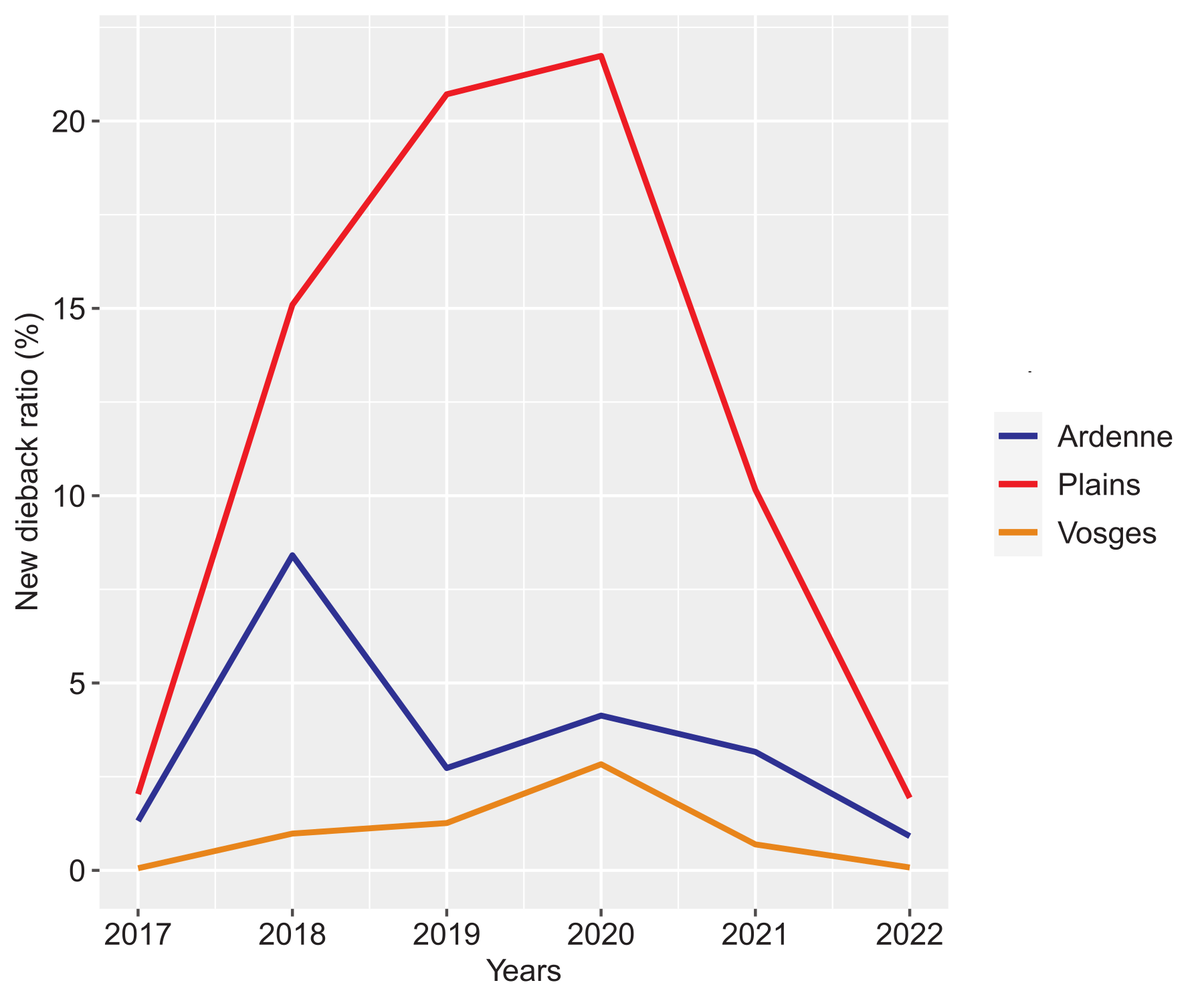
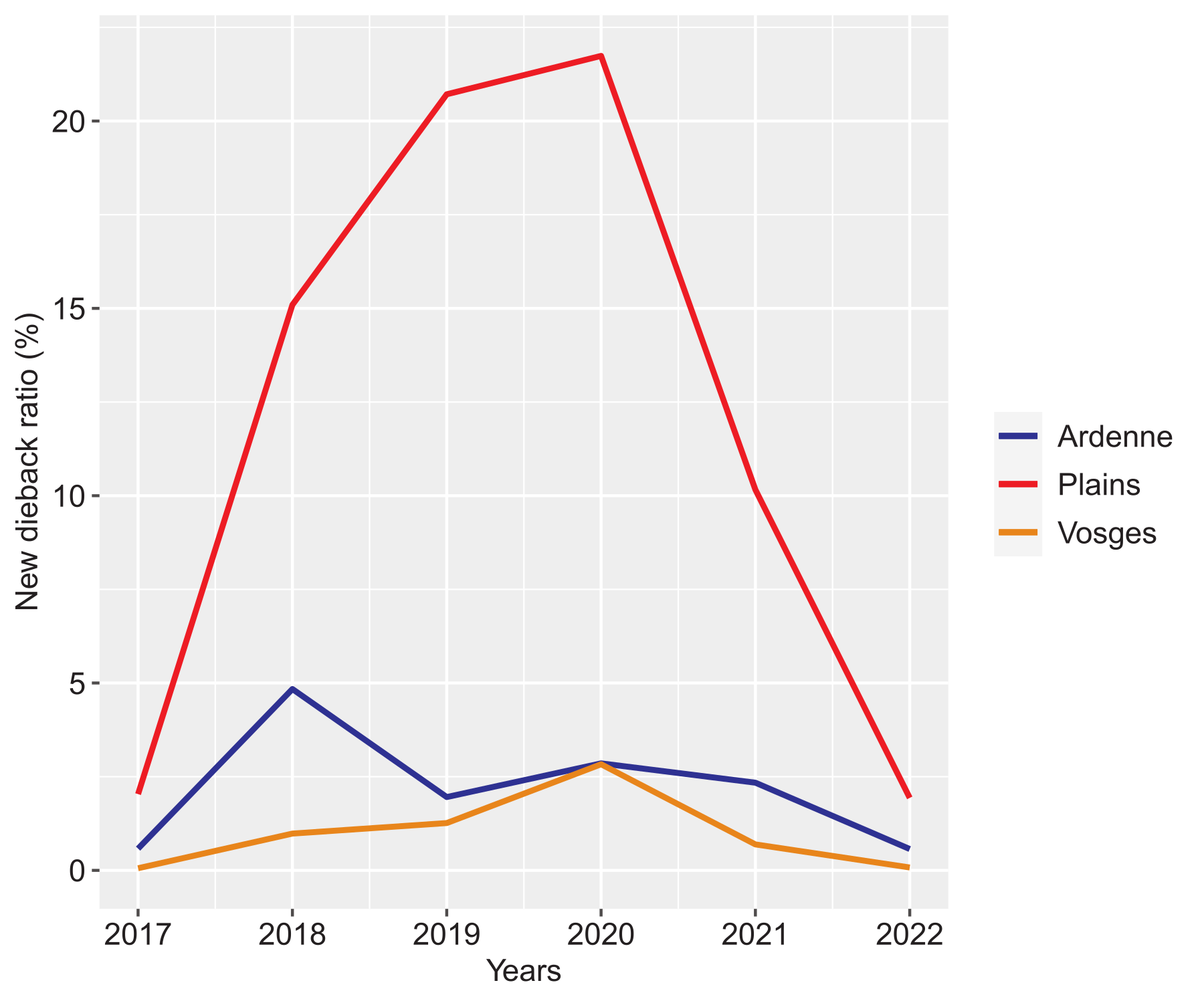
modif conclusion +  discussion

diff --git a/articleSco/2022-ScolytesArdenneVosges.tex b/articleSco/2022-ScolytesArdenneVosges.tex
@@ -28,7 +28,7 @@
 \author[label1]{Gilles Arthur}
 \ead{arthur.gilles@uliege.be}
 \author[label1]{Lisein Jonathan}
-\author[label2]{Lemaire Jean}
+%\author[label2]{Lemaire Jean}
 \author[label2]{Cansel Juliette}
 \author[label3]{Piedallu Christian}
 \author[label1]{Claessens Hugues}
@@ -107,8 +107,7 @@ After several weeks, the red stage is reached when the needles turn brown-red. T
 When all the needles of the spruce have fallen off and the grey bark of the trunk is visible, the grey stage is reached \citep{abdullah_european_2018}. 
 To control the infestation of bark beetle, the practical solutions are limited. 
 The use of phytosanitary product is forbidden in Belgian and French forest.
-Pheromone trap systems are commercialized to fight bark beetle
- but they failed to limit the economic loss in case of large outbreak \citep{kuhn_pheromone_2022}.
+Pheromone trap systems are commercialized to fight bark beetle but they failed to limit the economic loss in case of large outbreak \citep{kuhn_pheromone_2022}.
 The only solution to limit the bark beetle population and its associated damages is to fell and remove each attacked tree at the green stage, before the swarming.
 It takes this ideal breeding material out of the forest.
 
@@ -153,7 +152,7 @@ The spruce area studied is 120,365 ha in Ardenne, 24,462 ha in the Vosges and 75
 
 Forest microclimate contrast with the climate.
 The micro-climate is influenced including by topography \citep{de_frenne_forest_2021}.
-The digital surface model data from the Copernicus Land Monitoring Service \citep{DEM_copernicus} at a resolution of 25 m have been used for altitude data's and slope calculations.
+The digital elevation model (DEM) data from the Copernicus Land Monitoring Service \citep{DEM_copernicus} at a resolution of 25 m have been used for altitude data's and slope calculations.
 The topographic exposures have been determined using the \cite{Delvaux_galoux} definition of three topographic  exposures.
 Plateau are neutral topographic conditions that does not create a particular micro-climate. 
 North-facing orientations are slopes greater than  20\% facing north (285 to 125°) with cold and shady conditions.
@@ -191,7 +190,7 @@ The analysis of image time-serie was thus quite straightforward and has been per
 Although \cite{dutrieux_package_2021} have published their methodology as a open-source python package, named \textit{FORDEAD}, we have adapted the pipeline in C++ in order to comply with our specific requirements (our code is online on github repository \url{https://github.com/JoLeBelge/s2-spruce-dieback/}). 
 We made use of OTB toolbox \citep{grizonnet_2017_OTB} for image processing and the health status was summarized by seasonnal annual health maps (in raster format).
 The annual health maps cover the period starting from may and finishing in april of the next calendar year, because we made the assumption that Norway spruce dieback detected in april are related to bark beetle attack from the previous calendar year \citep{muller_features_2022}.
-For every years between 2018 and 2021, the health status of every single pixel located in a spruce stand is summarized in one of the four following classes ; healthy, bark beetle attacked, cutted or sanitary thinning.
+For every years between 2018 and 2022, the health status of every single pixel located in a spruce stand is summarized in one of the four following classes ; healthy, bark beetle attacked, cutted or sanitary thinning.
 In view of the rapid death of spruce trees, it is assumed that all trees detected as dead are due to bark beetle attack.
 The dense time-serie covers the 2017-2021 period and count a minimum of 126 and maximum 260 acquisition dates. 
 The annual time-serie enumerate a minimum of 10 and maximum of 51 acquisition dates. 
@@ -305,8 +304,8 @@ The total area of spruce at the beginning of the years is composed of the area o
 %We study the dieback of the Norway spruce in function of this two variables.
 \subsection{Sanitary map validation}
 The result of photo-interpretation of spruce stand crossed with the sanitary map is present in the table \ref{tab_confu_matrix}. 
-When the sanitary map predicts a decline, the dieback is confirmed by the orthophotoplan in 86,1 \% of the verified area.
-In 13,9 \% this a false positive and the trees are healthy.
+When the sanitary map predicts a decline, the dieback is confirmed by the orthophotoplan in 86.1 \% of the verified area.
+In 13.9 \% this a false positive and the trees are healthy.
   
 \begin{table}[htbp] 
 \caption{Confusion matrix of the result of the sanitary map validation for 274 spruce stands.}
@@ -314,10 +313,9 @@ In 13,9 \% this a false positive and the trees are healthy.
 \begin{tabular}{|l|l|l|}
 \hline
 \diagbox{Sanitary map}{Orthophotoplan} & Dead trees & Healthy trees \\ \hline
-Dieback trees                    & 86,1 \%   & 13,9 \%      \\ \hline
+Dieback trees                    & 86.1 \%   & 13.9 \%      \\ \hline
 \end{tabular}
 \end{table}
-
 
 The field validation confirm the result of the photo-interpretation method.
 Dead trees is identified correctly in 84.7 \%.
@@ -328,7 +326,7 @@ The healthy tree on the sanitary map are valided in 100 \% of the stand  in the 
 \begin{tabular}{|l|l|l|}
 \hline
 \diagbox{Sanitary map}{Field} & Dead trees & Healthy trees \\ \hline
-Dieback trees                    & 74.7 \%  & 15.3\%      \\ \hline
+Dieback trees                    & 84.7 \%  & 15.3\%      \\ \hline
 Healthy trees                    & 0 \%      & 100 \%
 \\ \hline
 
@@ -337,26 +335,27 @@ Healthy trees                    & 0 \%      & 100 \%
 
 
 
-\subsection{Evolution of the crisis }
+\subsection{Evolution of the crisis}
 
-Drought event and heatwaves  touched the western Europe since 2018.
+Drought event and heatwaves touched the western Europe since 2018.
 However, the outbreaks did not occur at the same time in the different regions (Figure \ref{evol_gen}).
-The first major dieback took place in the Ardenne in 2018 but the peak is directly reached and a decrease of new dieback ratio is observed from 2019. 
-A slight recovery in dieback occurs in 2020.
-%add reference crise 5 ans
-The area of Norway spruce killed in Ardenne during the five years of the study is 22.520 ha.
-The maximum of the proportion of the area touched by bark beetles during crisis peak in 2018 is 8,4\%. 
-The climatic area of the Ardenne have lost 18,7 \% of his Norway spruce area.
-In the Vosges, there is 4.248 ha killed by bark beetles.
-However, the maximum ratio of area affected by this insect is 2,8 \% in 2020.
-The Norway spruce stand of the Vosges has been reduced of 5,6 \% of his area. 
-At the peak of the crisis, the Vosges are proportionally less affected than the Ardenne and the Plains.
+The first major dieback took place in the Plains in 2018. 
 The important damage of the Plains spruce stands has begun in 2018.  
 The Plains area has the highest proportion of surface affected by the crisis.
-This region have three times more area affected by bark beetle than the Vosges.
+More than 50 \% of the spruce stands of this region have been killed by bark beetles attack.
 The Plains reached the maximum of area affected by bark beetles in 2020. 
-The peak of proportion of area impacted is reached at 22 \%.
-In total, more than half of the spruce stands were affected by bark beetles in this area.
+The peak of proportion of area impacted is reached at 21.8 \%.
+The important damage of the Ardenne spruce stands has begun in 2018 but the peak is directly reached and a decrease of new dieback ratio is observed from 2019. 
+A slight recovery in dieback occurs in 2020.
+%add reference crise 5 ans
+The area of Norway spruce killed in Ardenne during the five years of the study is 13,397 ha.
+This region have three times more area affected by bark beetle than the Vosges.
+The maximum of the proportion of the area touched by bark beetles during crisis peak in 2018 is 4.8\%. 
+The Ardenne have lost 12.4 \% of his Norway spruce area.
+In the Vosges, there is 4,305 ha killed by bark beetles.
+However, the maximum ratio of area affected by this insect is 2.8 \% in 2020.
+The Norway spruce stand of the Vosges has been reduced of 5.7 \% of his area. 
+At the peak of the crisis, the Vosges are proportionally less affected than the Ardenne and the Plains.
 The area killed by this resinous pest is detailed in table \ref{tab_recap}.
 % add syrface
 
@@ -367,9 +366,9 @@ The area killed by this resinous pest is detailed in table \ref{tab_recap}.
 \begin{tabular}{|l|l|l|}
 \hline
 Region   & \begin{tabular}[c]{@{}l@{}}Total Norway spruce \\ area killed (2017-2022)\end{tabular} & \begin{tabular}[c]{@{}l@{}}Total Norway spruce \\ area before crisis\end{tabular} \\ \hline
-Plains  & 13.067 ha                                                                                              & 24.462 ha                                                                         \\ \hline
-Ardenne & 23.429 ha                                                                                              & 120.365 ha                                                                        \\ \hline
-Vosges   & 4.305 ha                                                                                               & 75.067 ha                                                                        \\ \hline
+Plains  & 11,298 ha                                                                                              & 21,720 ha                                                                         \\ \hline
+Ardenne & 13,397 ha                                                                                              & 107,926 ha                                                                        \\ \hline
+Vosges   & 4,305 ha                                                                                               & 75,067 ha                                                                        \\ \hline
 \end{tabular}
 \end{table}
 
@@ -398,12 +397,9 @@ Vosges   & 4.305 ha                                                             
 \end{figure}
 
     
-
-
 \subsection{ Influence of altitude on the Norway spruce mortality}
 The altitude is easily usable for the forest manager to identify which species is suitable for regeneration.
-The precipitation in western Europe depend of altitude. 
-
+The climate in Western Europe is considered as a proxy of the altitude \citep{faccoli_composition_2014}. 
 The variation of the dieback ratio in the three bioclimatic regions for the period 2017-2021 is described in the Figure \ref{alti_sco}.
 %The altitude has been subdivided into the same 12 elevation classes for both regions. 
 %The graphs corresponding to the variation of the probability of presence in Wallonia are in the upper part of the figure and those for the Grand-Est in the lower part.
@@ -417,22 +413,22 @@ The graphs corresponding to the variation of the dieback in Plains (red), Ardenn
 	\label{alti_sco}
 \end{figure}
 The majority of spruce in the Plains is located in low altitude under 300 m of altitude in contrast with the Ardenne and the Vosges where the majority of Norway spruce stand grow above 400 m. 
-The Plains group are affected mainly in low altitude with a hight dieback ratio. 
+The Plains are affected mainly in low altitude with a hight dieback ratio. 
 During the crisis the class of altitude 100 m - 200 m et 200 m - 300 m are strongly affected with a probability of presence exceeding 20\%.
-In Ardenne group since the beginning of the crisis, the low altitude classes are more affect than hight altitude classes.
+In Ardenne, since the beginning of the crisis, the low altitude classes are more affect than hight altitude classes.
 The dieback of Norway spruce occur along the altitudinal gradient.
 This gradient is confirmed over the 6 years of the study.
 Indeed, during 2018, there is a strong increase of the new dieback ratio in the 100-200 m and 200-300 m altitude classes is observed. 
-These two altitude classes are more affected during the crisis contrary to the stand located above 400 m that are weakly attacked with maximum 8,6 \%.
-There is also like in the Ardenne group a diminution of the dieback ratio along a altitudinal gradient.
+These two altitude classes are more affected during the crisis contrary to the stand located above 400 m that are weakly attacked with maximum 4,9\%.
+There is also like in the Ardenne a diminution of the dieback ratio along a altitudinal gradient.
 The low altitude stand are the more affected stand and are disappearing.
-During the six crisis year, the trend are similar for Ardenne and the Plains, there dieback ratio the ratio is higher at lower altitudes. 
-In Vosges group, all of the altitude classes are affected by dieback in a similar way.
+During the six crisis years, the trend are similar for Ardenne and the Plains, there dieback ratio the ratio is higher at lower altitudes. 
+In Vosges, all of the altitude classes are affected by dieback in a similar way.
 No trend seems to emerge.
 The low altitude are poorly represented. 
 There are no impact of altitude on the presence of bark beetle. 
 The dieback ratio is inferior of 5 \% during the study period.
-The dieback of Norway spruce in the Vosges climatic area is not influenced by the variation of altitude.
+The dieback of Norway spruce in the Vosges bioclimatic area is not influenced by the variation of altitude.
 
 
 
@@ -463,7 +459,7 @@ The dieback of Norway spruce in the Vosges climatic area is not influenced by th
 The cumulative killed areas of Norway spruce during five years of crisis varies with the topographic exposures (table \ref{tab_or_topo}).
 In Ardenne, the north and south facing slope are similarly affected. 
 The plateau are less impacted than the north and south facing slope.
-The Plains group is the most affected. 
+The Plains is the most affected bioclimatic area. 
 The north-facing slope are more affected than the plateau or the south-facing slopes.
 The south-facing are the less impacted topographic exposure in the plains.
 In the Vosges climatic area, the plateau are more impacted than the north and south-facing slope.
@@ -482,80 +478,62 @@ For this two areas is not the orientation of the slope that influence the diebac
 \hline
 \multirow{2}{*}{}  & \multicolumn{3}{l|}{Dieback ratio (\%)}                             \\ \cline{2-4} 
                    & \multicolumn{1}{l|}{Plains} & \multicolumn{1}{l|}{Ardenne} & Vosges \\ \hline
-Plateau            & \multicolumn{1}{l|}{56}   & \multicolumn{1}{l|}{16}    & 7.2    \\ \hline
-South-facing slope & \multicolumn{1}{l|}{55}   & \multicolumn{1}{l|}{23.6}    & 5.4    \\ \hline
-North-facing slope & \multicolumn{1}{l|}{59}   & \multicolumn{1}{l|}{22}    & 5.1   \\ \hline
+Plateau            & \multicolumn{1}{l|}{51.8}   & \multicolumn{1}{l|}{11.9}    & 7.2    \\ \hline
+South-facing slope & \multicolumn{1}{l|}{51.5}   & \multicolumn{1}{l|}{15.2}    & 5.4    \\ \hline
+North-facing slope & \multicolumn{1}{l|}{54}   & \multicolumn{1}{l|}{14.4}    & 5.1   \\ \hline
 \end{tabular}
 \end{table}
 
-  
-
-
-
-\iffalse\subsection{Evolution et importance}
-
-The evolution of the crisis differs between these two neighbouring regions. 
-In Wallonia, during the year 2017 and 2018, there are already Norway spruce affected by bark beetle in low altitude but the probability of presence is under 10\%. 
-In 2019, the peak is reached in all of classe of altitude. During this year, the percentage of area of the Wallon Norway spruce stand affected by bark beetle is 2.8\%.
-In 2020, there a  little diminution of attack. 
-During 2021, there are important diminution of area impacted by bark beetle. The probability of bark beetle presence returns to the same level as begin the crisis.
-
-In Grand-Est, during 2017, the attack of bark beetle are weak. 
-In 2018, there are first attack at low altitude but always below 5\%.
-In 2019, the increasing of attack at low altitude continues.
-In 2020, in all altitude classes are impacted by bark beetle. 
-Between 100 m an 400 m of altitude there are a important augmentation of the probability of presence. 
-The maximum of area affected is reached. % indiqué pourcentage max atteint
-During 2020, there is 4\% of the total area of spruce stand of Grand-Est that area affected by bark beetle during 2020.
-
-\fi
- 
-  
+   
 
 \section{Discussion}
 
 \subsection{Potential limitations}
-The detection of bark beetle attack is based on Sentinel 2 satellite imagery.
-The methodology use Norway spruce map. 
-In pure even aged Norway spruce, the method works well but border effects cannot be excluded. 
-In mixed forest, the Norway spruce map is less accurate than in pure even aged.
-In fact, our sanitary map resolution is 10 m and if there some deciduous tree or others resinous in the Norway spruce mask, there is a risk of error.
+The detection of bark beetle attack is based on dense time dense serie of Sentinel 2 satellite imagery. 
+The sanitary map use a species composition map that depend of the spectral response of the vegetation.
+The methodology employed allow to decouple dieback from phenology and other stressors.
+In pure even aged Norway spruce stand, the spectral response is stable but at edge of this stand and in mixed stand this response varies with season due to the deciduous tree or herbaceous species.
+In mixed forest and in the border of the stands, the species composition map is less accurate than in pure even aged stand.
 In Ardenne and in the Plains, there is principally pure even aged stand of Norway spruce but in the Vosges the stand are more mixed.
-In this region, there is more risk of presence of beech and silver fir in our Norway spruce mask.
-We overestimated the Norway spruce area in the Vosges region.
-Thus the new dieback ratio is lower than the reality.
+The new dieback ratio is influenced by Norway spruce area of the composition map.
+In Ardenne and in the Plains, the area is correctly estimated.
+However, in the Vosges the area is more difficult to evaluate due to the important mix of species.
+An underestimation of nex dieaback ratio cannot be excluded.
+Another limitation of the methodology is linked to the speed with which trees are felled.
+To limit the damage of bark beetles, it is recommended to remove the attacked trees from the forest.
+However, if the trees are felled before three correct images are taken by the satellite, the area will be considered as cutted rather than a sanitary thinning.  
  
-
 \subsection{Dynamic of the dieback}
 In forest sanitary crisis lasts on average between tree and ten years \citep{gauquelin_guide_2010}.
 The spruce dieback in our study area have begun in 2018 and have finished in 2021.
 The new dieback ratio has returned to the same level than in 2017.
-The Plains bioclimatic region are the most impacted bioclimatic region.
+The Plains bioclimatic region are the most impacted region.
 During the six year of the study, the new dieback ratio has only increased until it reached the peak of the crisis in 2020.
-In the Ardenne, the peak reached directly 2018 during the drought period.
-A important decrease of the dieback occurred during the year 2019.
-After the peak the dieback ratio has stabilised between 2.5 \% and 5\%.
+In the Ardenne, the peak reached directly in 2018 during the drought period.
+A decrease of the dieback occurred during the year 2019.
+After the peak the dieback ratio has stabilised below 3 \%.
 The Vosges are the less impacted bioclimatic area. 
-The peak of the crisis is reached in 2020 with 2.5 \% of the spruce area affected.
-During the five years of the crisis, the new dieback ratio vary between 1 \% and 2.5 \%.
+The peak of the crisis is reached in 2020 with 2.8 \% of the spruce area affected.
+During the five years of the crisis, the new dieback ratio remained below 3 \%.
 
 
 \subsection{Global trend of the dieback}
 
 Mortality depend of different environmental conditions.
-We found that the Plains is most impacted bioclimatic area.
+We found that the severity of the bark beetles attack vary in function of the regions. 
+The Plains is most impacted bioclimatic area.
 This bioclimatic area has lost more than half of its spruce area.
 The low amount of precipitation during the growing season of this area is unfavourable for the growing of the Norway spruce and the high temperatures during the growing season allow for rapid development of bark beetles population.
 The climate conditions are suitable for the multiplication of generation of bark beetle during the year (\citep{annila_influence_1969,baier_phenipscomprehensive_2007}).
 Moreover the repetition of new drought period in 2019 and 2020 have led to important stress to the Norway spruce and a outbreak of bark beetles. 
 The Ardenne is the second more affected climatic area of our study area.
-The peak is reached in 2018 in this region with a dieback ratio of 8,4 \%.  
+The peak is reached in 2018 in this region with a dieback ratio of 4.8 \%.  
 The climate in this area is colder than the Vosges or the Plains climatic area but with more precipitation than the Plains and less than the Vosges.
 The Norway spruce has been used to reforest a large part of this region with soils of low fertility soil and low agricultural interest. 
 During the heatwaves of the years 2018, 2019 and 2020, some stands are on unsuitable forest sites for the Norway spruce. 
 The drought of 2018 cause a important stress in this spruce stand and climate was favourable to the production three generations of bark beetles.
 The Vosges is the less affected climatic area by the dieback of Norway spruce.
-The peak is reached in 2020 with 2,8 \%.
+The peak is reached in 2020 with 2.8 \%.
 The precipitation in this area is more important than other climatic area and seems to compensate for the high temperatures.
 In the Vosges, the increasing of area impacted by bark beetles is relatively weak.
 The Norway spruce is a endemic species in the Vosges mountain. 
@@ -563,13 +541,13 @@ The mountain climate protect this resinous species.
 
 Climate influence the species distribution and is a proxy of altitude in Western Europe.
 The Norway spruce is a native tree species on the top of the Vosges mountain \citep{guinier_trois_1959}. 
-Unlike on top of Vosges, inthe Ardenne, the Plains and the low part of the Vosges it was introduced.
+Unlike on top of Vosges, in the Ardenne, the Plains and the low part of the Vosges it was introduced.
 %It was introduced in the low altitude Vosges and in  all part of the Ardenne and the Plains. 
 All of spruce species need important amount of water. 
 In the Plains, all classes of altitude are touched by more than 10 \% during the 2018 - 2020 period. 
 The altitude didn't protect the tree during the drought. 
 All of this stand are artificial stand plant in forest site not adapted for mountain tree. 
-In the Ardenne from 400 m to 700 m the forest have been affected to a maximum of 8,6 \%. 
+In the Ardenne from 400 m to 700 m the forest have been affected to a maximum of 4.9 \%. 
 The low damage can be explain by increase precipitation with altitude (\cite{kotlarski_elevation_2012}, \cite{Roe_orographic_preicpitation_2005}).
 The air masses come to the Ardenne massif and important precipitations are formed  \citep{van_der_perre_carte_2015}, allowing the spruce to suffer less from the drought and heat waves in this region at low altitudes compared to the Vosges massif. 
 %cite etude climato
@@ -579,12 +557,12 @@ The bark beetle can also affect by this increase of precipitation to swarm.
 %Besides, in low altitude the temperature are higher than in hight altitude. 
 %The number of generation depend of the temperature.
 %And thus higher temperature produce more damage cause by the the supplementary generation. 
-The altitude influence the choice of the place of overwintering of bark beetles.
-The quantity of bark beetles that overwinters under the bark decrease with altitude \citep{kasumovic_overwintering_2019}.
-The litter insulate better the beetle of the freeze \citep{lombardero_cold_2000} than the bark.
-However, the metabolism of bark beetle need energy from 5°C  \citep{kostal_physiological_2011}.
-In case of warm winter, the bark beetles in altitude need more energy to survive. 
-Warm winter is also negative in altitude for the bark beetles population and can explain the less damage above 400 m in Norway spruce  stand.
+%The altitude influence the choice of the place of overwintering of bark beetles.
+%The quantity of bark beetles that overwinters under the bark decrease with altitude \citep{kasumovic_overwintering_2019}.
+%The litter insulate better the beetle of the freeze \citep{lombardero_cold_2000} than the bark.
+%However, the metabolism of bark beetle need energy from 5°C  \citep{kostal_physiological_2011}.
+%In case of warm winter, the bark beetles in altitude need more energy to survive. 
+%Warm winter is also negative in altitude for the bark beetles population and can explain the less damage above 400 m in Norway spruce  stand.
 
 The explosion of the ratio of area impacted by bark beetle in the Plains can be also explain by a non-proactive management of forest in this area.
 The sanitation felling allow to limit explosion of bark beetles \citep{stadelmann_effects_2013}.
@@ -593,13 +571,13 @@ The harvesting was attractive for sawmill and forest owner only for important am
 The time between the infestation of the stand and the sanitation felling is probably to long and allow a development more easily of important outbreak of bark beetles.
 In 2018, in a part of the Ardenne the logging of tree have been prohibited due to the African Swine Fever. 
 This other sanitary crisis has allowed bark beetles to thrive in this inaccessible stands.
-In small properties of the three bioclimatic area, the logging harvesting has been complicated because of the low economic interest due to the small amount of timber to be felled in this type of stand \citep{senecal_crise_2020}.
-In ardenne and in the plains, the Norway spruce stand are generally pure even aged and therefore more sensible \citep{jactel_2021}.
+In small properties of the three bioclimatic areas, the logging harvesting has been complicated because of the low economic interest due to the small amount of timber to be felled in this type of stand \citep{senecal_crise_2020}.
+In Ardenne and in the Plains, the Norway spruce stand are generally pure even aged and therefore more sensible \citep{jactel_2021}.
 The explosion of bark beetle population was managed through proactive management of infested stands.
 Important sawmills are presents in the region and the logs can be quickly removed from the forest.
 Besides the vosgian forest is generally mixed with beech (\textit{Fagus sylvatica}) and  silver fir (\textit{Abies alba}).
-Mixed forest are significantly more resistant to pest attack \citep{jactel_2021}. 
-The difference of proportion affected by bark beetles in Ardenne and Vosges can be explained by type of forest.
+Mixed forest are significantly more resistant to pest attack \citep{faccoli_composition_2014,jactel_2021}. 
+The difference of proportion affected by bark beetles in Ardenne and Vosges can be explained by the type of forest.
 In Ardenne, the even aged pure stand is predominantly whereas in the Vosges  the forest are more mixed. 
 
 
@@ -647,7 +625,7 @@ Mixed forest are significantly more resistant to pest attack \citep{jactel_2021}
 The difference of proportion affected by bark beetles in Ardenne and Vosges can be explained by type of forest.
 In Ardenne, the even aged pure stand is predominantly whereas in the Vosges  the forest are more mixed. 
 \fi
-\subsection{Influence of the altitude the dieback of Norway spruce}
+%\subsection{Influence of the altitude the dieback of Norway spruce}
 
 %faut checker car source dolezal unpublished)
 
@@ -675,10 +653,14 @@ In Ardenne, the even aged pure stand is predominantly whereas in the Vosges  the
 The exposure of slopes influences the presence of vegetation. The north facing slopes receive less radiation than south facing slopes and thus the temperature vary between the two orientations.
 The life cycle of the bark beetle is influenced by temperature \citep{baier_phenipscomprehensive_2007}. 
 South facing slope are warmer than north facing slope.
-Bark beetles produce more generation in this area and thus there are more damage in this exposure.
-However, our result doesn't confirm this hypothesis.
-The most attacked exposure varies in function of the bioclimatic area.
-Moreover in France, \cite{nardi_drought_2022} show that steep slopes and soils with low water availability are less attacked.
+Bark beetles produce more generation in this area and thus there are more damage in this exposure \citep{jakus_1995}.
+Besides, there is 50 \% less water stored in south slope than in north slope in spring \citep{Rouse_1969}. 
+Thus, Norway spruce that growth in this orientation have less available water than in north-facing slope and be more attacked than the north facing-slope.
+However in Europe and in north America, Gazol \citep{gazol_2017} observed that species that grow in drier condition area more resilient to drought.
+Moreover in France, a recent study of \cite{nardi_drought_2022} show that steep slopes and soils with low water availability are less attacked.
+Nevertheless, our result doesn't confirm this  two hypothesis.
+The south slopes are not the more attacked exposures for all of three bioclimatic areas.
+
 
 %In the Vosges, the slope are less impacted than the plateau. 
 %The plateau are located in the " Mille Etangs area". This area have been planted with Norway spruce and composed of pure even aged stand of Norway spruce and not with mixed forest as in the majority of the rest of the Vosges.
@@ -705,18 +687,16 @@ Moreover in France, \cite{nardi_drought_2022} show that steep slopes and soils w
 
 In the context of global change, the forest manager need to adapt its silvicultural choices.
 In our study, we show that the topographical variables influence the dieback of Norway spruce differently in function of the three bioclimatic areas.
-
-The Plains are the most impacted regions with more than 50\% of the spruce area impacted by bark beetles. The killed area by this pest is estimated at 13.067 ha.
-The Ardenne is the second region that has lost the most spruce area with  19.5 \% of his spruce area attacked or 23.429 ha. 
-The Vosges is the less attacked region with 5,7 \% of his spruce area killed. The total area impacted in this mountain region is  4.305 ha.
-
+The Plains are the most impacted regions with more than 50\% of the spruce area impacted by bark beetles. The killed area by this pest is estimated at 11,298 ha.
+The Ardenne is the second region that has lost the most spruce area with  12,4 \% of his spruce area attacked or 13,397 ha. 
+The Vosges is the less attacked region with 5.7 \% of his spruce area killed. The total area impacted in this mountain region is  4,305 ha.
 Our data does not support the new plantation of Norway spruce in Plains.
 In Ardenne, we advise to not not to plant any more Norway spruce at low altitude below 400 m.
 In the Vosges, the trend differs of the two others regions.
 A study specially dedicated to this region is necessary to to draw conclusions.
-
 To improve the result in the Vosges, a new Norway spruce map is necessary to better distinguish spruce from fir.
-A study taking into account the effects of environment, climate and silvicultural factors would be interesting to better understand the important mortality of this important species for the wood industry. 
+A study taking into account the effects of environment, climate and silvicultural factors would be interesting to better understand the important mortality of this important species for the wood industry.
+The methodology used to identify bark beetle-ravaged stands is robust and effective. This methodology could be adapted to detect dieback of other tree species.
 
 
 
